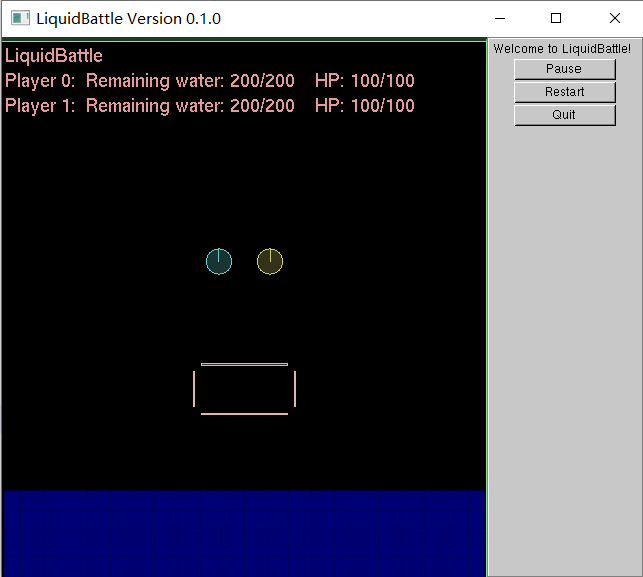
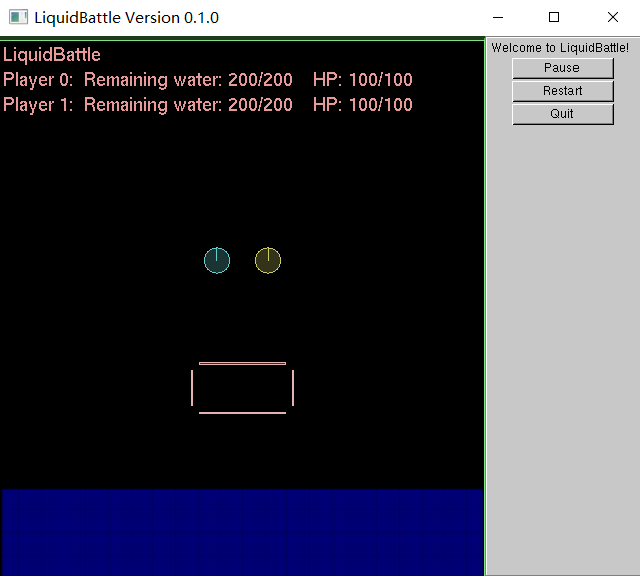
change style

diff --git a/README.md b/README.md
@@ -22,15 +22,6 @@ make -j LiquidBattle
 
 ### 游戏界面说明
 
-<center>
-    <img style="border-radius: 0.3125em;
-    box-shadow: 0 2px 4px 0 rgba(34,36,38,.12),0 2px 10px 0 rgba(34,36,38,.08);" 
-    src="res/pictures/Initial_interface.png" width = "65%" alt=""/>
-    <br>
-    <div style="color:orange; border-bottom: 1px solid #d9d9d9;
-    display: inline-block;
-    color: #999;
-    padding: 2px;">
-      初始界面
-  	</div>
-</center>
+<center><img src="res/pictures/Initial_interface.png" width="60%"></center>
+
+<center>初始界面</center>
